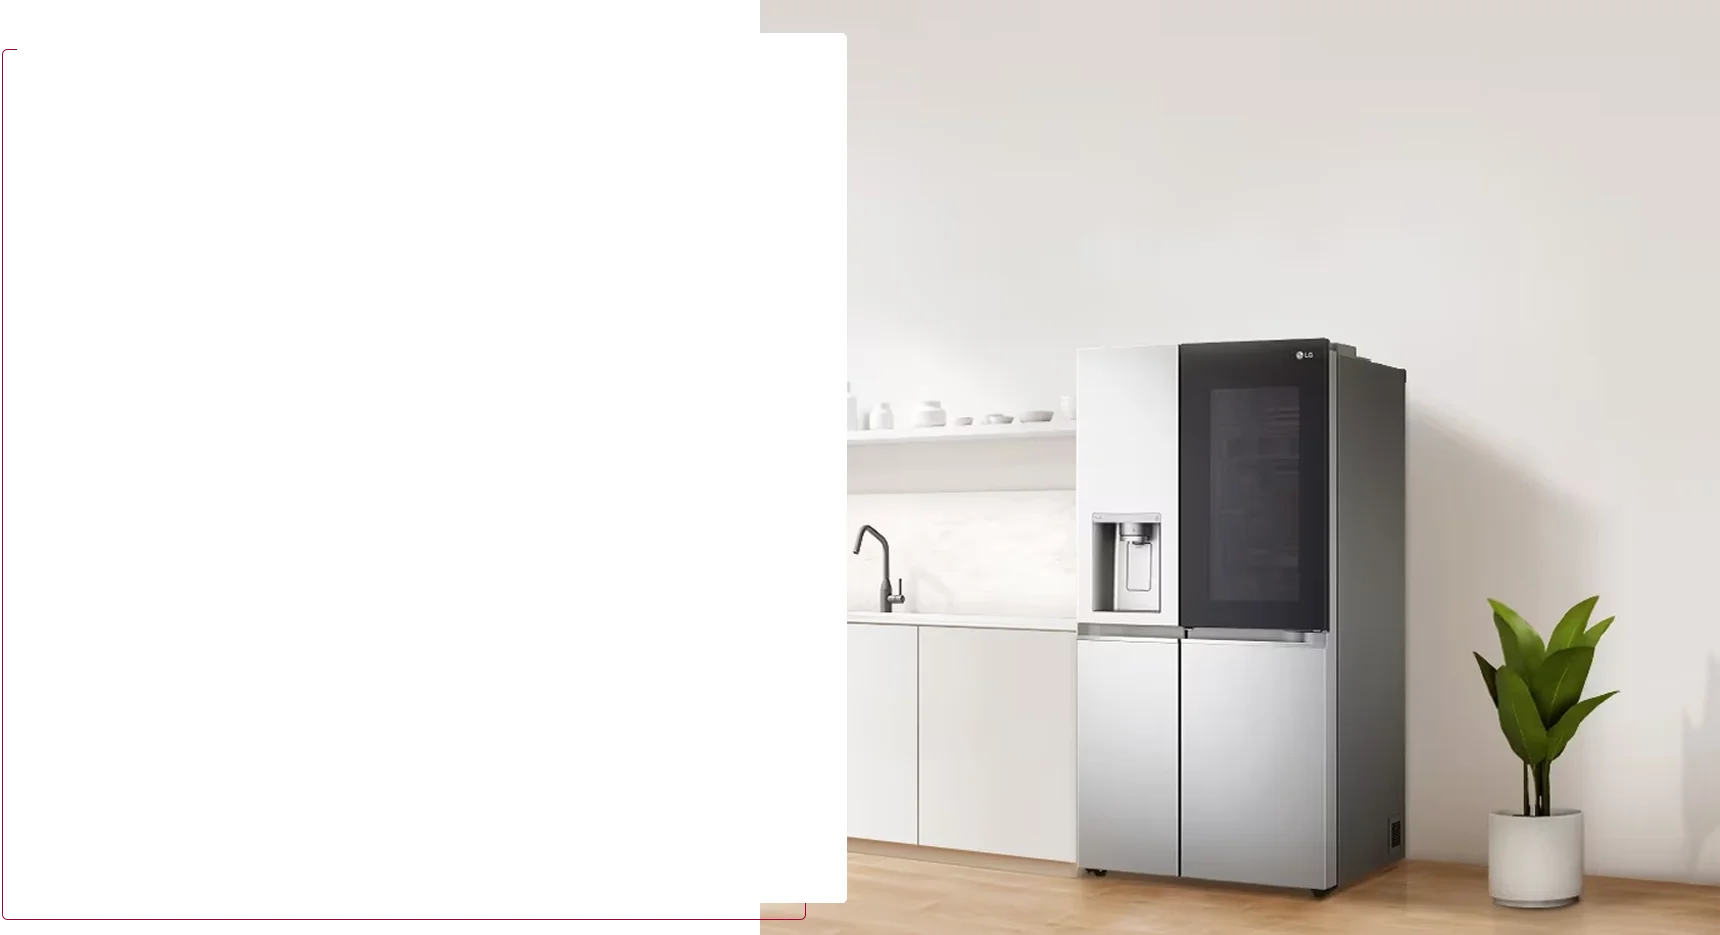
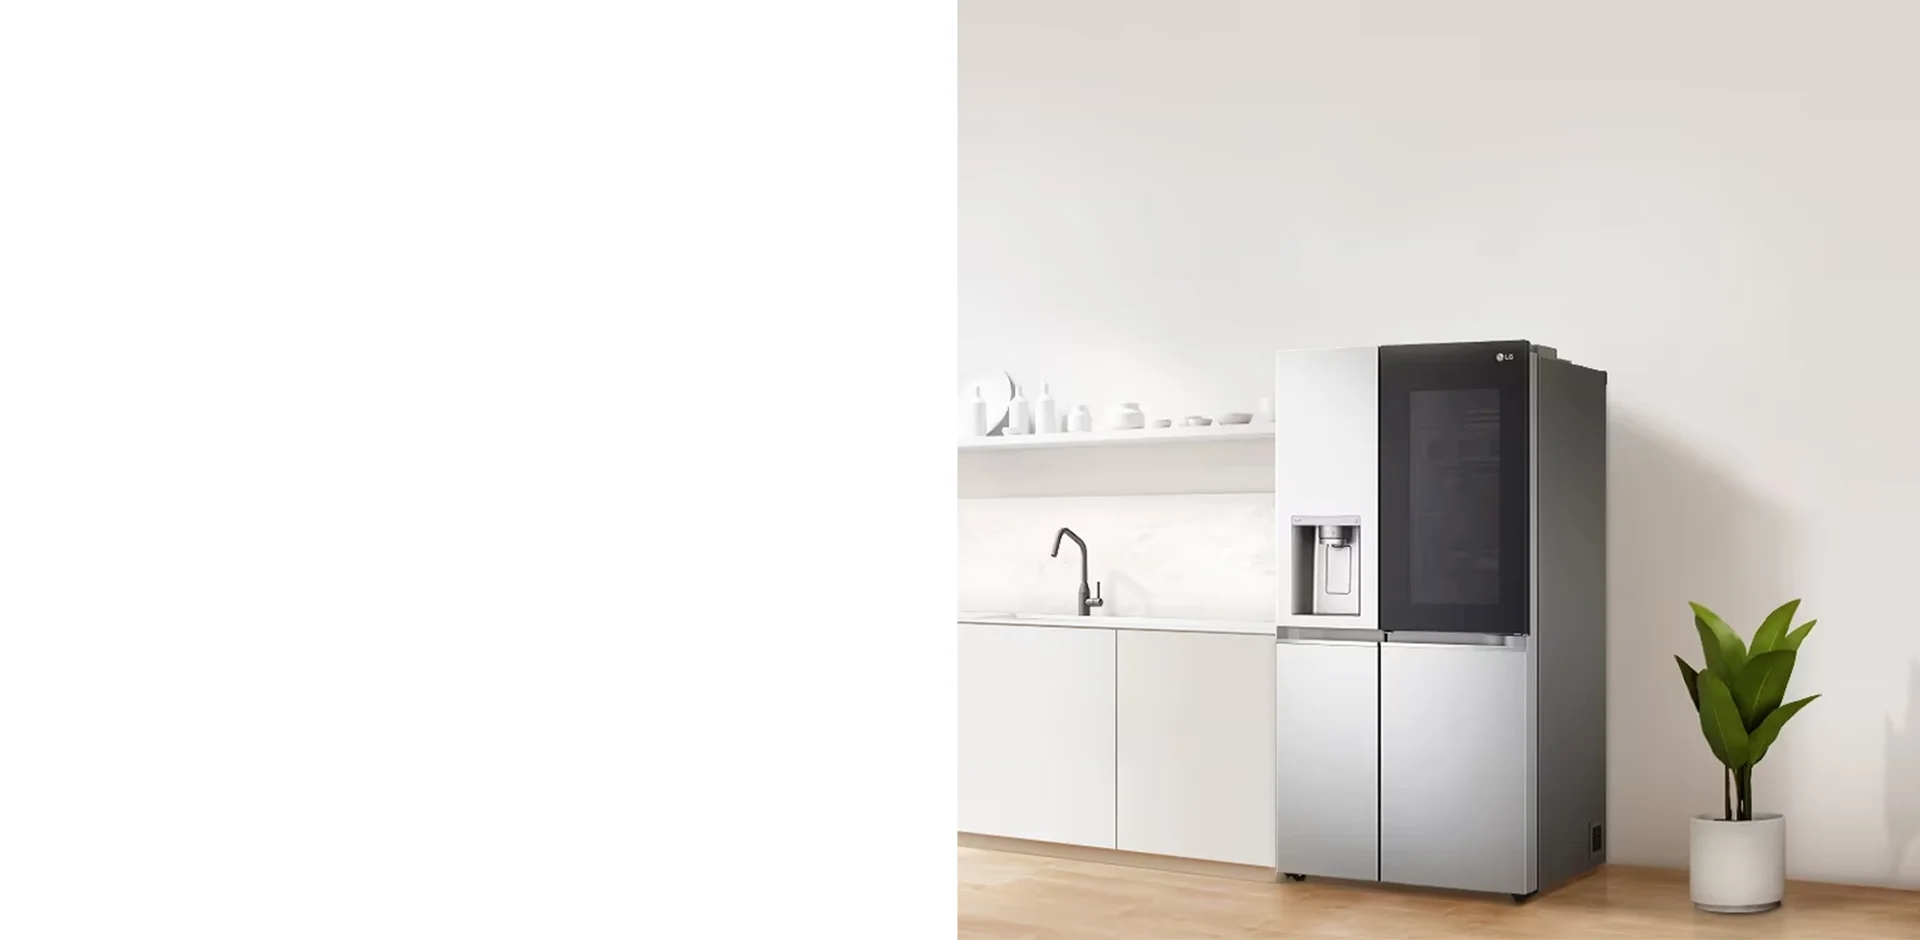
...

Changed region(s): [[0.4314, 0.3412, 0.9552, 1.0], [0.4314, 0.0, 0.5238, 0.2791]]

diff --git a/css/main.css b/css/main.css
@@ -1038,10 +1038,16 @@
     justify-content: center;
     flex-direction: column;
     gap: 50px; }
-    @media (min-width: 1199px) {
+    @media (min-width: 678px) {
       .form .container {
         display: grid;
         grid-template-columns: repeat(2, 1fr);
+        gap: 40px; } }
+    @media (min-width: 992px) {
+      .form .container {
+        gap: 60px; } }
+    @media (min-width: 1199px) {
+      .form .container {
         gap: 120px; } }
   .form__text {
     width: 80%;
@@ -1049,10 +1055,15 @@
     border-radius: 10px;
     background-color: white;
     box-shadow: rgba(0, 0, 0, 0.35) 0px 5px 15px, white 16px 16px 0px -4px, #A40033 17px 17px, white 20px -20px 0px -3px;
-    padding: 20px; }
-    @media (min-width: 678px) {
+    padding: 20px;
+    min-height: 270px; }
+    @media (min-width: 778px) {
       .form__text {
-        width: 70%; } }
+        min-height: 210px; } }
+    @media (min-width: 1199px) {
+      .form__text {
+        width: 70%;
+        height: 320px; } }
     .form__text__imagen--one {
       margin: auto;
       width: 50px;
@@ -1079,11 +1090,11 @@
           height: 150px; } }
     .form__text__imagen--four {
       margin: auto;
-      width: 120px;
+      width: 100px;
       height: 80px; }
       @media (min-width: 1199px) {
         .form__text__imagen--four {
-          width: 248px;
+          width: 180px;
           height: 150px; } }
     .form__text__text {
       padding-top: 15px;
@@ -1117,35 +1128,40 @@
   align-items: center;
   justify-content: center;
   flex-direction: column;
-  background-image: url("../img/fondo-gracias.webp");
+  background-image: url("../img/ban-agradecimiento.webp");
   background-size: cover;
   background-position: center;
   background-repeat: no-repeat; }
   .thanks .container {
-    display: grid;
-    grid-template-columns: repeat(2, 1fr); }
-  .thanks h2 {
-    color: #A40033;
-    font-size: 20px;
-    text-align: center;
-    font-family: Segoe-Regular;
-    font-weight: bold; }
-    @media (min-width: 768px) {
-      .thanks h2 {
-        font-size: 25px; } }
-    @media (min-width: 1700px) {
-      .thanks h2 {
-        font-size: 30px; } }
-  .thanks p {
-    padding-top: 15px;
-    color: black;
-    font-family: Segoe-Regular;
-    font-size: 15px;
-    text-align: center; }
-    @media (min-width: 1199px) {
-      .thanks p {
-        font-size: 18px;
-        padding-top: 20px; } }
+    display: flex;
+    align-items: center;
+    justify-content: center;
+    flex-direction: column; }
+  .thanks__text {
+    background-color: rgba(154, 0, 31, 0.7);
+    padding: 30px 60px; }
+    .thanks__text h2 {
+      color: white;
+      font-size: 25px;
+      text-align: center;
+      font-family: Segoe-Regular;
+      font-weight: bold; }
+      @media (min-width: 768px) {
+        .thanks__text h2 {
+          font-size: 30px; } }
+      @media (min-width: 1700px) {
+        .thanks__text h2 {
+          font-size: 35px; } }
+    .thanks__text p {
+      padding-top: 15px;
+      color: white;
+      font-family: Segoe-Regular;
+      font-size: 15px;
+      text-align: center; }
+      @media (min-width: 1199px) {
+        .thanks__text p {
+          font-size: 18px;
+          padding-top: 20px; } }
   .thanks__button {
     display: flex;
     align-items: center;
@@ -1153,10 +1169,10 @@
     .thanks__button a {
       border: 2px solid #A40033;
       margin-top: 30px;
-      background-color: #A40033;
+      background-color: white;
       font-family: Segoe-Bold;
       padding: 15px 30px;
-      color: white;
+      color: #A40033;
       font-size: 15px;
       text-align: center; }
       @media (min-width: 300px) {
@@ -1166,8 +1182,8 @@
         .thanks__button a {
           font-size: 18px; } }
     .thanks__button a:hover {
-      background-color: white;
-      color: #A40033;
+      background-color: #A40033;
+      color: white;
       border: 2px solid #A40033; }
 
 .banner_privacidad {
@@ -1176,14 +1192,14 @@
   align-items: center;
   justify-content: center;
   flex-direction: column;
-  background-image: url("../img/banner-aviso.webp");
+  background-image: url("../img/ban-aviso.webp");
   background-position: center;
   background-repeat: no-repeat;
   background-size: cover;
   margin-top: 80px;
   padding: 60px 0; }
   .banner_privacidad h2 {
-    background-color: rgba(0, 0, 0, 0.5);
+    background-color: rgba(154, 0, 31, 0.7);
     padding: 30px;
     color: white;
     font-size: 20px;

diff --git a/scss/components/_thanks.scss b/scss/components/_thanks.scss
@@ -3,35 +3,39 @@
   height: 90vh;
   @include flex-center-center;
   flex-direction: column;
-  background-image:url('../img/fondo-gracias.webp');	
+  background-image:url('../img/ban-agradecimiento.webp');	
   background-size:cover;
   background-position:center;
   background-repeat: no-repeat; 
 
   .container{
-    display: grid;
-    grid-template-columns: repeat(2, 1fr);
+    @include flex-center-center;
+    flex-direction: column;
   }
 
-      h2{
-        color: $Shiraz;
-        font-size: 20px;
+  &__text{
+    background-color: rgba(154,0,31,0.7);
+    padding: 30px 60px;
+
+    h2{
+        color: $white;
+        font-size: 25px;
         text-align: center;
         font-family: Segoe-Regular;
         font-weight: bold;
 
         @media(min-width:768px){
-            font-size: 25px;
+            font-size: 30px;
         }
 
         @media(min-width:1700px){
-            font-size: 30px;
+            font-size: 35px;
         }
     }
 
     p{
       padding-top: 15px;
-      color: $black;
+      color: $white;
       font-family: Segoe-Regular;
       font-size: 15px;
       text-align: center;
@@ -42,16 +46,19 @@
       }
     }
 
+  }
+
+
     &__button{
       @include flex-center-center;
       
       a{
           border: 2px solid $Shiraz;
           margin-top: 30px;
-          background-color:$Shiraz;
+          background-color:$white;
           font-family: Segoe-Bold;
           padding: 15px 30px ;
-          color:white;
+          color:$Shiraz;
           font-size: 15px;
           text-align: center;
 
@@ -66,8 +73,8 @@
       }
 
       a:hover{
-          background-color:$white ;
-          color: $Shiraz;
+          background-color:$Shiraz ;
+          color: $white;
           border: 2px solid $Shiraz;
       }
   }

diff --git a/scss/components/_form.scss b/scss/components/_form.scss
@@ -11,9 +11,18 @@
         flex-direction: column;
         gap: 50px;
 
-        @media(min-width:1199px){
+        @media(min-width:678px){
             display: grid;
             grid-template-columns: repeat(2, 1fr);
+            gap: 40px;
+		}
+
+        @media(min-width:992px){
+            gap: 60px;
+		}
+
+
+        @media(min-width:1199px){
             gap: 120px;
 		}
     }
@@ -26,9 +35,15 @@
         background-color: $white;
         box-shadow:rgba(0, 0, 0, 0.35) 0px 5px 15px, white 16px 16px 0px -4px, $Shiraz 17px 17px, white 20px -20px 0px -3px;
         padding: 20px;
+        min-height: 270px;
 
-        @media(min-width:678px){
+        @media(min-width:778px){
+            min-height: 210px;
+        }
+
+        @media(min-width:1199px){
             width: 70%;
+            height: 320px;
         }
 
         &__imagen{
@@ -68,11 +83,11 @@
 
             &--four{
                 margin: auto;
-                width: 120px;
+                width: 100px;
                 height: 80px;
 
                 @media(min-width:1199px){
-                    width: 248px;
+                    width: 180px;
                     height: 150px; 
                 }
             }

diff --git a/gracias.html b/gracias.html
@@ -152,14 +152,15 @@
         <div class="thanks">
             <div class="container">
                 <span></span>
-                <div >
-                    <h2>Gracias por comunicarte con nostros</h2>
-                    <p>Atenderemos tu solicitud lo antes posible.</p>
-                    <div class="thanks__button">
-                        <a href="/">VOLVER</a>
-                    </div>
-                    
-                </div>                
+    
+                <div class="thanks__text">
+                    <h2>Gracias por comunicarte con nosotros</h2>
+                    <p>Atenderemos tu solicitud lo antes posible.</p>  
+                </div>   
+                
+                <div class="thanks__button">
+                    <a href="/">VOLVER</a>
+                </div>
             </div>
             
         </div>

diff --git a/scss/components/_aviso-de-privacidad.scss b/scss/components/_aviso-de-privacidad.scss
@@ -2,7 +2,7 @@
   width: 100%;
   @include flex-center-center;
   flex-direction: column;
-  background-image: url('../img/banner-aviso.webp');
+  background-image: url('../img/ban-aviso.webp');
   background-position: center;
   background-repeat: no-repeat;
   background-size: cover;
@@ -10,7 +10,7 @@
   padding: 60px 0;
 
   h2{
-    background-color: rgba(0,0,0,0.5);
+    background-color: rgba(154,0,31,0.7);
     padding: 30px;
     color: $white;
     font-size: 20px;
